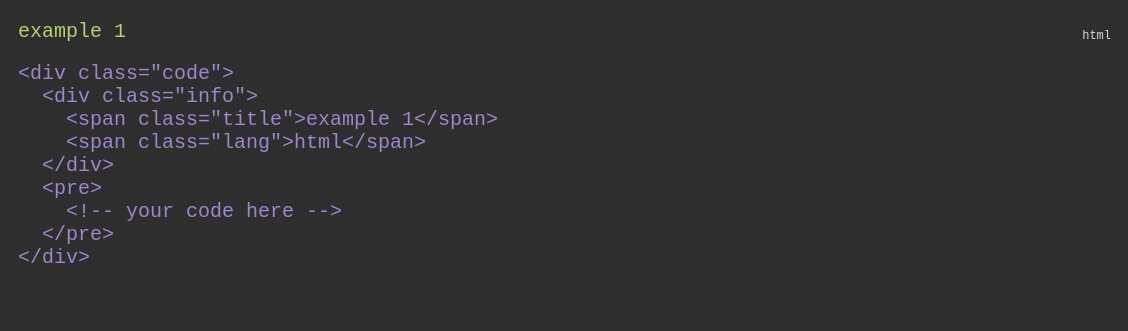
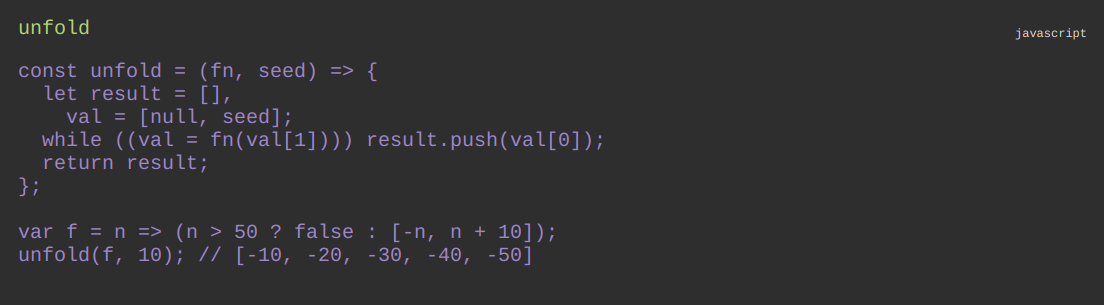
chore: update usage and pictures

diff --git a/README.md b/README.md
@@ -42,8 +42,9 @@ The most simplest way of using `codeblock.css` is:
 <div class="code">
   <span class="lang">html</span>
   <pre>
-    &lt;!-- your code here --&gt;
-  </pre>
+const validateNumber = n => !isNaN(parseFloat(n)) && isFinite(n) && Number(n) == n;
+validateNumber('10'); // true</pre
+  >
 </div>
 ```
 
@@ -56,20 +57,20 @@ If you'd like to add a title to the code block, you'll have to do this:
 ```html
 <div class="code">
   <div class="info">
-    <span class="title">example 1</span>
-    <span class="lang">html</span>
+    <span class="title">unfold</span>
+    <span class="lang">javascript</span>
   </div>
   <pre>
-    &lt;div class=&quot;code&quot;&gt;
-      &lt;div class=&quot;info&quot;&gt;
-        &lt;span class=&quot;title&quot;&gt;example 1&lt;/span&gt;
-        &lt;span class=&quot;lang&quot;&gt;html&lt;/span&gt;
-      &lt;/div&gt;
-      &lt;pre&gt;
-        &lt;!-- your code here --&gt;
-      &lt;/pre&gt;
-    &lt;/div&gt;
-  </pre>
+const unfold = (fn, seed) => {
+  let result = [],
+    val = [null, seed];
+  while ((val = fn(val[1]))) result.push(val[0]);
+  return result;
+};
+
+var f = n => (n > 50 ? false : [-n, n + 10]);
+unfold(f, 10); // [-10, -20, -30, -40, -50]</pre
+  >
 </div>
 ```
 
